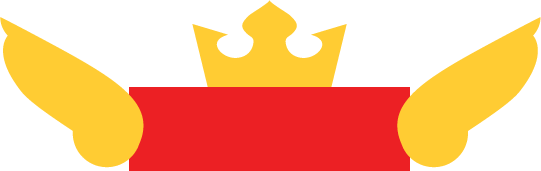
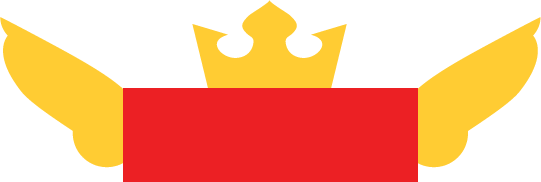
updated design

diff --git a/css/style.css b/css/style.css
@@ -27,7 +27,7 @@
 }
 
 body { background-color: #69c9f0; }
-h3 { font-family: 'roccaregular', Verdana, sans-serif; font-size: 4em; color: white; margin: 1em auto; text-align: center }
+h3 { font-family: 'roccaregular', Verdana, sans-serif; font-size: 4em; color: white; margin: auto; text-align: center }
 nav { background-color: #ff9c00; text-align: center; width: 100% }
 nav ul { margin-bottom: 0; }
 nav ul li {display: inline-block; font-family: 'CubanoRegular', Verdana, sans-serif; font-size: 2em; margin: .5em 1.2em; }
@@ -39,5 +39,21 @@ header h2 { font-family: 'roccaregular', Verdana, sans-serif; font-size: 3em; co
 header h3 { font-family: 'CubanoRegular'; color: #ce6300; font-size: 2.5em; }
 .container.sunny { width: 100%; background-color: #ffcc33; text-align: center; padding-bottom: 8em }
 .container.sunny .columns { float: none; display: inline-block; margin-left: auto; margin-right: auto; }
-#islands { background: url(../images/island.png) no-repeat; background-size: 100% auto;  margin: 0 auto; max-width: 1016px; height: 268px; position: relative; top: 160px; }
+#horses { background: url(../images/horses.png) no-repeat; background-size: 100% auto;  margin: 0 auto; max-width: 700px; height: 313px; position: relative; top: 110px; }
 .water { padding: 10em 0 }
+#sponsors{ background: url(../images/bg_wings1.png) no-repeat center center; max-width: 451px; height: 181px; background-size: 90%; line-height: 4.7em; color: #EC2024 }
+#venue { background: url(../images/bg_wings2.png) no-repeat center center; max-width: 505px; height: 118px; background-size: 90%; color: #006699; line-height: 2.2em }
+#speakers { background: url(../images/bg_wings3.png) no-repeat center center; max-width: 541px; height: 171px; background-size: 95%; line-height: 4.5em; }
+.water section { height: 200px; }
+
+@media screen and (max-width: 400px) {
+  header h1 { height: 165px; }
+  #horses { display: none; }
+  .water { padding: 0; }
+  #sponsors {
+    font-size: 2.5em;
+    line-height: 6.7em;
+  }
+  #venue { font-size: 2.5em; line-height: 3.5em }
+  #speakers { font-size: 2.5em; line-height: 6.2em; background-size: 100% }
+}

diff --git a/index.html b/index.html
@@ -33,15 +33,18 @@
        <div class="container sunny">
          <header class="sixteen columns">
            <h1>RubyConf Philippines</h1>
-           <h2>MARCH 27-28 2014<br/>BORACAY ISLAND, PHILIPPINES</h2>
+           <h2>MARCH 27-28 2014<br/>MANILA, PHILIPPINES</h2>
            <h3>Join us for the first ever ruby conference in the Philippine Islands. Get to know the vibrant local community in 2 days of Sun, Sand &amp; Ruby</h3>
          </header>
-         <section id="islands"></section>
+         <section id="horses"></section>
        </div>
        <div class="container water">
-         <h3>SPEAKERS</h3>
-         <h3>VENUE</h3>
-         <h3>SPONSORS</h3>
+         <h3 id="speakers">SPEAKERS</h3>
+	 <section></section>
+         <h3 id="venue">VENUE</h3>
+	 <section></section>
+         <h3 id="sponsors">SPONSORS</h3>
+	 <section></section>
        </div>
 
 
